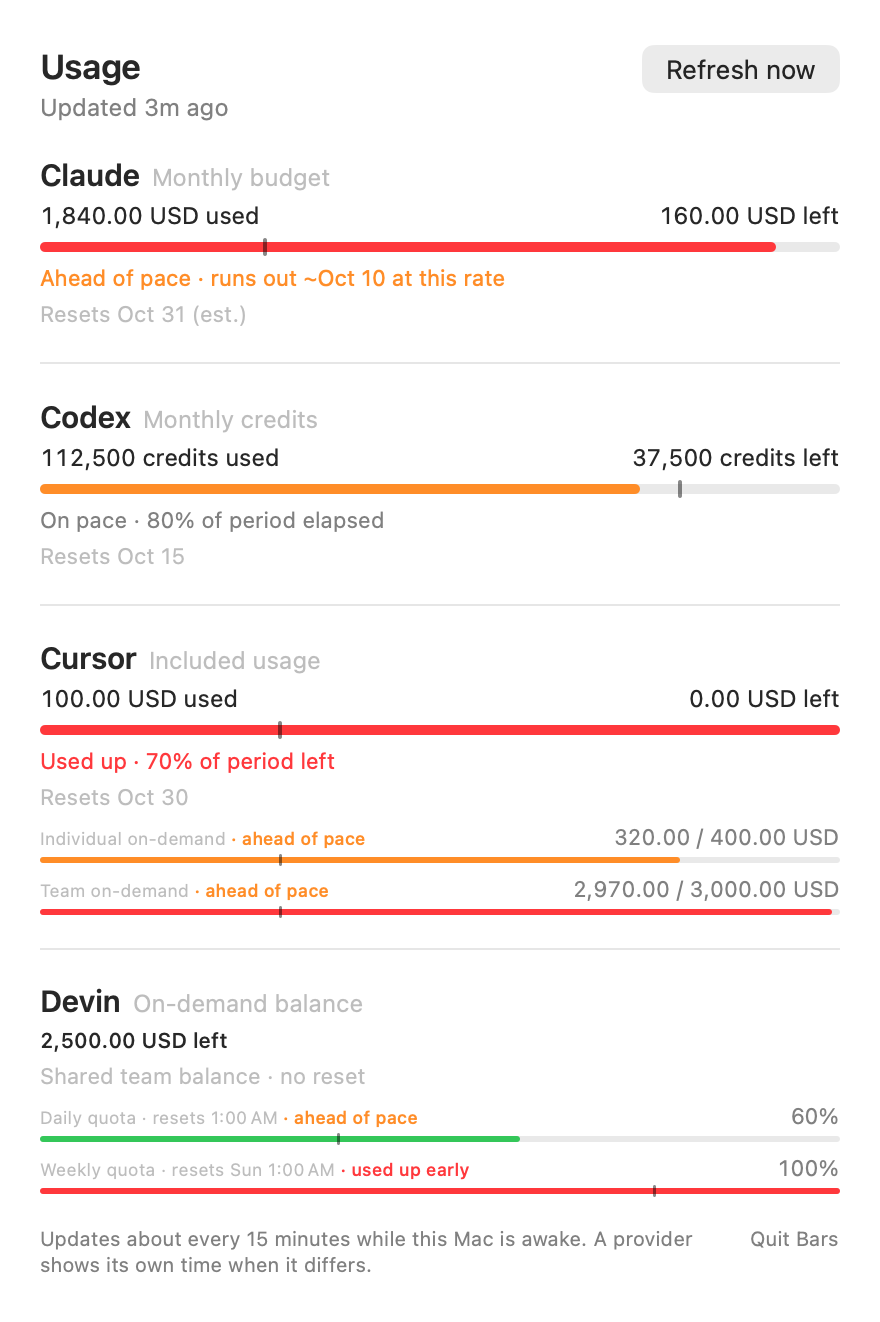
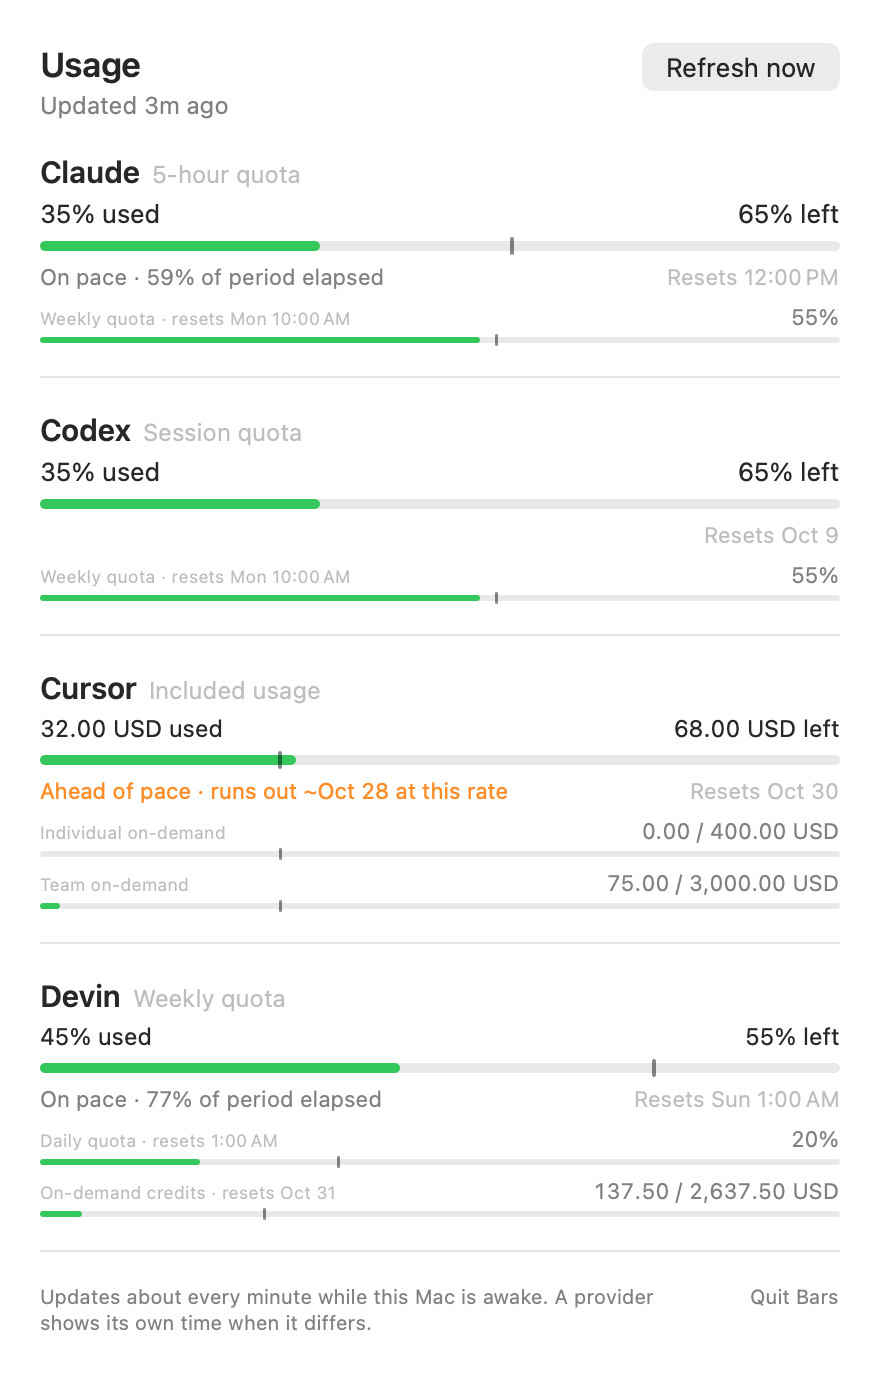
Installer: safer rollback, settings under the lock, tags in BARS_REF
Rollback restores only files this run wrote and never through a plugin
directory that became a link meanwhile; per-plugin directories are now
created inside the rollback-protected block. Settings are read under the
refresh lock just before writing, so a provider hidden while the
installer waited stays hidden, and unknown keys are carried over. The
bootstrap resolves BARS_REF as a branch or a tag with a retained clone,
so the documented BARS_REF=v1 downgrade works. Docs state the limits of
rollback against an abrupt kill; README screenshots regenerated from the
synthetic harness.

Generated with [Devin](https://devin.ai)

diff --git a/scripts/install.py b/scripts/install.py
@@ -311,6 +311,15 @@ def source_commit() -> str | None:
     return commit if result.returncode == 0 and re.fullmatch(r"[0-9a-f]{40}", commit) else None
 
 
+def previous_config(config_path: Path) -> dict:
+    """An existing installation's settings object, or an empty one when there is none."""
+    try:
+        previous = json.loads(config_path.read_bytes())
+    except (OSError, ValueError):
+        return {}
+    return previous if isinstance(previous, dict) else {}
+
+
 def previous_disabled(config_path: Path) -> list[str] | None:
     """The `disabled_providers` list of an existing installation, or None when there is none."""
     try:
@@ -435,17 +444,14 @@ def install(app: Path, python: Path, *, start: bool = True,
               # and a person can see which code is installed without inspecting the clone.
               "layout_version": LAYOUT_VERSION, "installed_commit": source_commit()}
     detected = detect_logins(python, config["path"])
-    # The app also edits this list in place; refresh.py reads it on every run.
-    config["disabled_providers"] = choose_disabled(detected, disable, enable_all,
-                                                   previous=previous_disabled(config_path))
     launcher = f'#!/bin/sh\nexec {shlex.quote(str(python))} {shlex.quote(str(runtime / "refresh.py"))} "$@"\n'
     files = {
-        config_path: (json.dumps(config, indent=2).encode(), 0o600),
         refresh: (launcher.encode(), 0o700),
         plist_path: (plistlib.dumps(launch_agent(refresh, support)), 0o600),
     }
     kept_plugin_files: list[str] = []
     created_directories: list[Path] = []
+    written: list[Path] = []
     app_stage = Path(tempfile.mkdtemp(prefix=".bars-install-", dir=destination.parent))
     runtime_stage = Path(tempfile.mkdtemp(prefix=".install-", dir=support))
     may_remove_staging = True
@@ -470,11 +476,14 @@ def install(app: Path, python: Path, *, start: bool = True,
             # back with the other installed files. Plan them here, under the lock and just
             # before writing, so an edit made while the installer waited is still kept.
             plugin_files, kept_plugin_files = plan_plugin_sync(STANDARD_PLUGINS, plugins)
-            for directory in dict.fromkeys(path.parent for path in plugin_files):
-                if not directory.exists():
-                    created_directories.append(directory)
-                private_directory(directory)
             files.update(plugin_files)
+            # Settings are read here too: the app edits `disabled_providers` in place, and a
+            # provider hidden while the installer waited for the lock must stay hidden. Keys this
+            # installer does not know are carried over unchanged.
+            config = {**previous_config(config_path), **config}
+            config["disabled_providers"] = choose_disabled(detected, disable, enable_all,
+                                                           previous=previous_disabled(config_path))
+            files[config_path] = (json.dumps(config, indent=2).encode(), 0o600)
             previous_files = {path: ((path.read_bytes(), path.stat().st_mode & 0o777)
                                      if path.exists() else None) for path in files}
             was_loaded = subprocess.run(["/bin/launchctl", "print", service],
@@ -493,11 +502,16 @@ def install(app: Path, python: Path, *, start: bool = True,
                         live.rename(old)
                     switched.append((live, old))
                     new.rename(live)
+                for directory in dict.fromkeys(path.parent for path in plugin_files):
+                    if not directory.exists():
+                        created_directories.append(directory)
+                    private_directory(directory)
                 for path, (data, mode) in files.items():
                     # A plugin directory replaced by a link since planning would redirect the
                     # write into whatever it points at; refuse rather than follow it.
-                    if path.parent.is_symlink() or not is_private_directory(path.parent):
+                    if path in plugin_files and not is_private_directory(path.parent):
                         raise RuntimeError(f"{path.parent} changed during installation; nothing was written there.")
+                    written.append(path)
                     atomic_write(path, data, mode)
                 subprocess.run(["/usr/bin/plutil", "-lint", str(plist_path)], check=True)
                 register_app(destination)
@@ -510,7 +524,12 @@ def install(app: Path, python: Path, *, start: bool = True,
                         shutil.rmtree(live)
                     if old.exists():
                         old.rename(live)
-                for path, previous in previous_files.items():
+                # Restore only what this run wrote, and never through a plugin directory that
+                # became a link meanwhile: that would edit whatever the link points at.
+                for path in reversed(written):
+                    if path in plugin_files and not is_private_directory(path.parent):
+                        continue
+                    previous = previous_files[path]
                     if previous is None:
                         path.unlink(missing_ok=True)
                     else:

diff --git a/tests/integration/test_refresh.py b/tests/integration/test_refresh.py
@@ -1041,6 +1041,67 @@ class InstallationTransactionTests(unittest.TestCase):
         self.assertEqual(json.loads((plugins / installer.PLUGIN_RECORD).read_text()),
                          {"claude/plugin.py": installer.file_digest(b"previous")})
 
+    def test_rollback_never_writes_through_a_plugin_directory_that_became_a_link(self):
+        plugins = self.support / "plugins"
+        elsewhere = Path(self.temporary.name) / "elsewhere"
+        elsewhere.mkdir()
+        (elsewhere / "plugin.py").write_text("# unrelated module\n")
+        (elsewhere / "plugin.json").write_text("{}")
+        real_private = installer.private_directory
+
+        def swap_after_creation(path):
+            # The directory is prepared, then replaced by a link before the writes.
+            real_private(path)
+            if path.name == "codex":
+                shutil.rmtree(path)
+                path.symlink_to(elsewhere)
+        with patch.object(installer, "private_directory", swap_after_creation), \
+                self.assertRaisesRegex(RuntimeError, "changed during installation"):
+            self.run_install(self.detecting_run({pid: True for pid in installer.standard_plugin_ids()}))
+        self.assert_old_installation()
+        # Neither the refused write nor the rollback touched the link's target.
+        self.assertEqual((elsewhere / "plugin.py").read_text(), "# unrelated module\n")
+        self.assertEqual((elsewhere / "plugin.json").read_text(), "{}")
+        # Files written before the refusal were rolled back; the link itself is left alone.
+        self.assertFalse((plugins / "claude").exists())
+        self.assertTrue((plugins / "codex").is_symlink())
+
+    def test_settings_changed_while_the_installer_waits_are_kept(self):
+        # The app edits disabled_providers in place; a change made while an earlier refresh
+        # held the lock must survive, and keys this installer does not know are carried over.
+        config_path = self.support / "installation.json"
+        with contextlib.redirect_stdout(io.StringIO()), contextlib.redirect_stderr(io.StringIO()):
+            self.run_install(self.detecting_run({pid: True for pid in installer.standard_plugin_ids()}))
+        real_lock = installer.refresh_lock
+
+        @contextlib.contextmanager
+        def editing_lock(support, timeout=installer.REFRESH_LOCK_WAIT_SECONDS):
+            with real_lock(support, timeout):
+                config = json.loads(config_path.read_text())
+                config["disabled_providers"] = ["cursor"]
+                config["future_key"] = {"kept": True}
+                config_path.write_text(json.dumps(config))
+                yield
+        with patch.object(installer, "refresh_lock", editing_lock), \
+                contextlib.redirect_stdout(io.StringIO()), contextlib.redirect_stderr(io.StringIO()):
+            self.run_install(self.detecting_run({pid: True for pid in installer.standard_plugin_ids()}))
+        config = json.loads(config_path.read_text())
+        self.assertEqual(config["disabled_providers"], ["cursor"])
+        self.assertEqual(config["future_key"], {"kept": True})
+        self.assertEqual(config["layout_version"], installer.LAYOUT_VERSION)
+
+    def test_failure_before_the_swap_creates_no_plugin_directories(self):
+        def fake_run(args, **kwargs):
+            if args[:2] == ["/bin/launchctl", "bootout"]:
+                raise subprocess.CalledProcessError(1, args)
+            return subprocess.CompletedProcess(args, 0)
+        with self.assertRaises(subprocess.CalledProcessError):
+            self.run_install(fake_run)
+        self.assert_old_installation()
+        # The layout's plugins directory is harmless when empty; a per-plugin directory
+        # without files would read as a broken provider.
+        self.assertEqual(list((self.support / "plugins").iterdir()), [])
+
     def test_updating_a_version_one_installation_keeps_selection_and_retained_values(self):
         # The layout the first release left behind: no plugins directory, no plugins_path,
         # a quarter-hour LaunchAgent and a schema-1 snapshot with retained values.

diff --git a/tests/integration/test_bootstrap.py b/tests/integration/test_bootstrap.py
@@ -126,6 +126,27 @@ class BootstrapTests(unittest.TestCase):
         self.assertIn("--uninstall", output)
 
     @unittest.skipUnless(tools_available(), "Command Line Tools and git are required")
+    def test_retained_clone_follows_a_tag_or_a_branch(self):
+        # The documented downgrade is BARS_REF=v1, a tag; a retained clone must resolve it,
+        # and a later run must be able to return to the branch.
+        work, bare = self.make_repository()
+        self.assertEqual(self.run_bootstrap(BARS_REPO_URL=bare.as_uri()).returncode, 0)
+        git("tag", "v1", cwd=work)
+        git("push", "-q", str(bare), "v1", cwd=work)
+        (work / "scripts/install.py").write_text("MARKER = 2\n" + STUB_INSTALL)
+        git("commit", "-q", "-am", "update", cwd=work)
+        git("push", "-q", str(bare), "HEAD:main", cwd=work)
+        result = self.run_bootstrap(BARS_REPO_URL=bare.as_uri(), BARS_REF="v1")
+        self.assertEqual(result.returncode, 0, result.stderr.decode())
+        self.assertEqual(self.record()["marker"], 1)
+        result = self.run_bootstrap(BARS_REPO_URL=bare.as_uri())
+        self.assertEqual(result.returncode, 0, result.stderr.decode())
+        self.assertEqual(self.record()["marker"], 2)
+        result = self.run_bootstrap(BARS_REPO_URL=bare.as_uri(), BARS_REF="v9")
+        self.assertNotEqual(result.returncode, 0)
+        self.assertIn("v9 is not a branch or tag", result.stderr.decode())
+
+    @unittest.skipUnless(tools_available(), "Command Line Tools and git are required")
     def test_rerun_fast_forwards_and_discards_local_changes(self):
         work, bare = self.make_repository()
         self.assertEqual(self.run_bootstrap(BARS_REPO_URL=bare.as_uri()).returncode, 0)

diff --git a/docs/distribution.md b/docs/distribution.md
@@ -43,7 +43,7 @@ A first install asks the checkout's standard plugins (`python3 -m bars_collector
 
 Running the install command again on a Mac with the first release (schema-1 snapshots, no plugins directory, a quarter-hour LaunchAgent) is the whole migration; nothing needs to be removed first.
 
-- `installation.json` is rewritten with every existing key kept. `disabled_providers` is preserved as it is; detection runs but is not applied to a reinstall. `plugins_path` is added.
+- `installation.json` is rewritten with every existing key kept, including keys this installer does not know. `disabled_providers` is read under the refresh lock just before writing, so a provider hidden from the dropdown while the installer waited stays hidden; detection runs but is not applied to a reinstall. `plugins_path`, `layout_version` and `installed_commit` are added.
 - `plugins/` is created and the four standard plugins written, with `.installed.json` recording their digests so later updates can tell an edited file from an unmodified one.
 - The LaunchAgent is booted out, rewritten to the per-minute schedule with `--scheduled`, and started again.
 - `snapshot.json` is left to the new collector, which reads the version 1 file, upgrades it in place and keeps every retained value, status, timestamp and enabled flag. The installer kickstarts a collection, so this happens within seconds.
@@ -51,7 +51,9 @@ Running the install command again on a Mac with the first release (schema-1 snap
 
 Keychain approvals, the source clone and provider logins are untouched. `tests/integration/test_refresh.py` exercises this path from a version 1 layout.
 
-Going back to the first release is not automatic: its collector refuses a version 2 `snapshot.json` as corrupt. To downgrade, uninstall with `--keep-data`, delete `snapshot.json` and `widget-snapshot.json`, then install the old commit (`BARS_REF`).
+Going back to the first release is not automatic: its collector refuses a version 2 `snapshot.json` as corrupt. To downgrade, uninstall with `--keep-data`, delete `snapshot.json` and `widget-snapshot.json`, then install the old release with `BARS_REF=v1` (a tag; `BARS_REF` accepts a branch or a tag, and a retained source clone follows either).
+
+The installer rolls back on any error it can observe: the app, runtime, launcher, LaunchAgent, settings and the plugin files it wrote are restored, and plugin directories it created are removed if still empty. It is not transactional against being killed mid-write (a power loss or `kill -9`): the previous app and runtime remain beside the new ones as `old.app` and `old-runtime` in the staging directories, but settings and plugin files already written stay written. Running the install command again completes the installation.
 
 ## Uninstall
 
